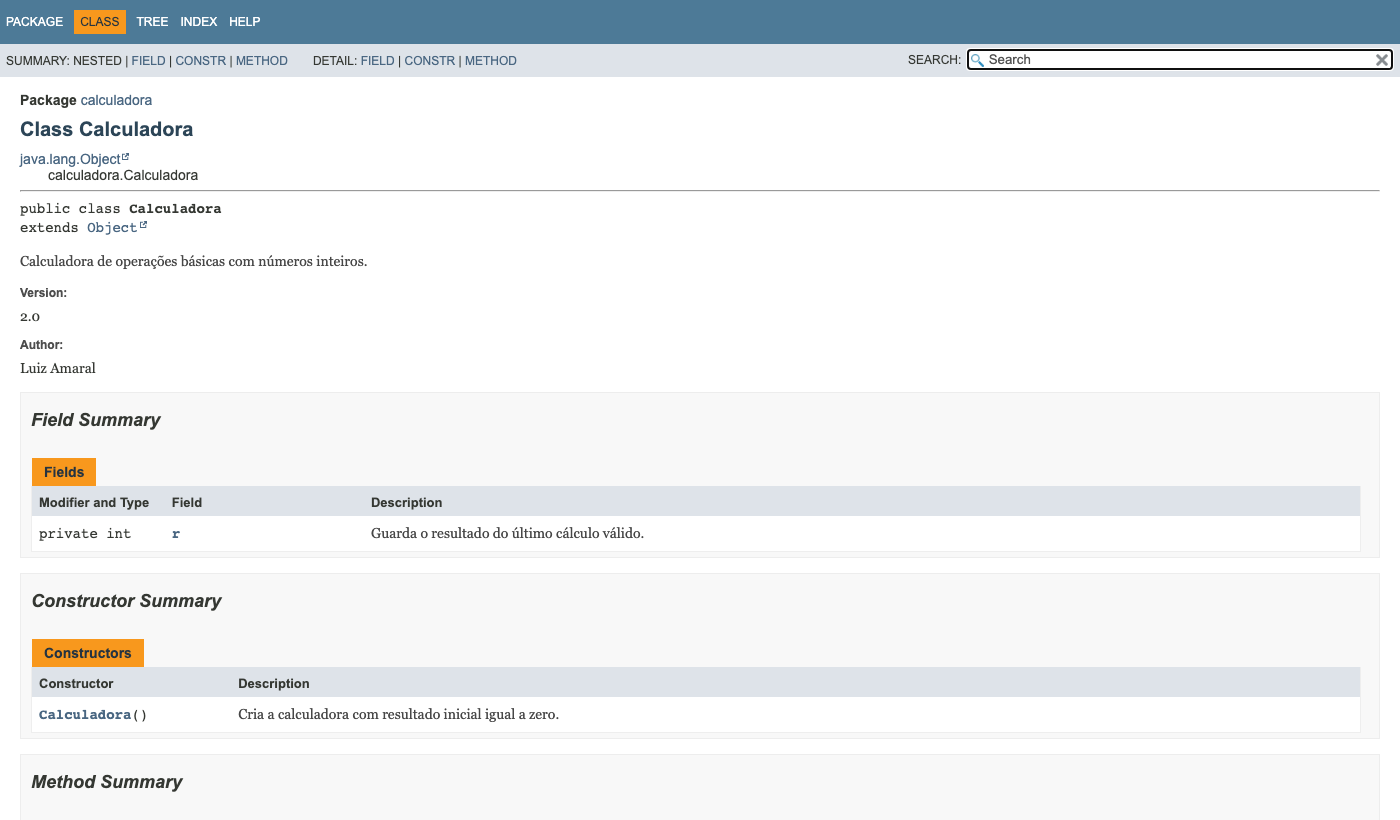
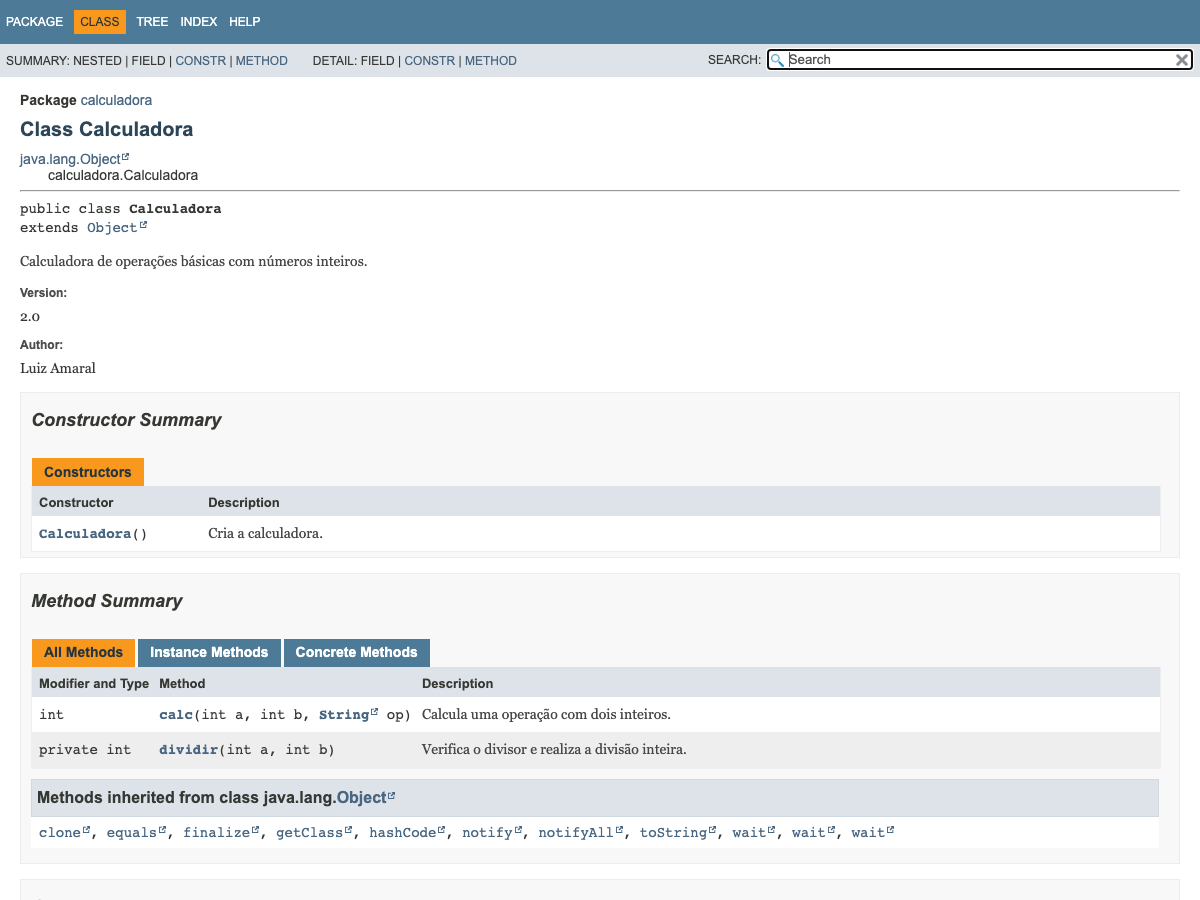
simplifica calculadora e README

Changed region(s): [[0.0, 0.0, 1.0, 0.6707], [0.0, 0.7012, 0.9867, 0.9756]]

diff --git a/docs/calculadora/Calculadora.html b/docs/calculadora/Calculadora.html
@@ -1,11 +1,10 @@
 <!DOCTYPE HTML>
 <html lang="pt">
 <head>
-<!-- Generated by javadoc (17) on Tue Oct 27 21:12:40 BRT 2026 -->
+<!-- Generated by javadoc (17) -->
 <title>Calculadora</title>
 <meta name="viewport" content="width=device-width, initial-scale=1">
 <meta http-equiv="Content-Type" content="text/html; charset=UTF-8">
-<meta name="dc.created" content="2026-10-27">
 <meta name="description" content="declaration: package: calculadora, class: Calculadora">
 <meta name="generator" content="javadoc/ClassWriterImpl">
 <link rel="stylesheet" type="text/css" href="../stylesheet.css" title="Style">
@@ -44,13 +43,13 @@ loadScripts(document, 'script');</script>
 <ul class="sub-nav-list">
 <li>Summary:&nbsp;</li>
 <li>Nested&nbsp;|&nbsp;</li>
-<li><a href="#field-summary">Field</a>&nbsp;|&nbsp;</li>
+<li>Field&nbsp;|&nbsp;</li>
 <li><a href="#constructor-summary">Constr</a>&nbsp;|&nbsp;</li>
 <li><a href="#method-summary">Method</a></li>
 </ul>
 <ul class="sub-nav-list">
 <li>Detail:&nbsp;</li>
-<li><a href="#field-detail">Field</a>&nbsp;|&nbsp;</li>
+<li>Field&nbsp;|&nbsp;</li>
 <li><a href="#constructor-detail">Constr</a>&nbsp;|&nbsp;</li>
 <li><a href="#method-detail">Method</a></li>
 </ul>
@@ -87,23 +86,6 @@ loadScripts(document, 'script');</script>
 </section>
 <section class="summary">
 <ul class="summary-list">
-<!-- =========== FIELD SUMMARY =========== -->
-<li>
-<section class="field-summary" id="field-summary">
-<h2>Field Summary</h2>
-<div class="caption"><span>Fields</span></div>
-<div class="summary-table three-column-summary">
-<div class="table-header col-first">Modifier and Type</div>
-<div class="table-header col-second">Field</div>
-<div class="table-header col-last">Description</div>
-<div class="col-first even-row-color"><code>private int</code></div>
-<div class="col-second even-row-color"><code><a href="#r" class="member-name-link">r</a></code></div>
-<div class="col-last even-row-color">
-<div class="block">Guarda o resultado do último cálculo válido.</div>
-</div>
-</div>
-</section>
-</li>
 <!-- ======== CONSTRUCTOR SUMMARY ======== -->
 <li>
 <section class="constructor-summary" id="constructor-summary">
@@ -114,7 +96,7 @@ loadScripts(document, 'script');</script>
 <div class="table-header col-last">Description</div>
 <div class="col-constructor-name even-row-color"><code><a href="#%3Cinit%3E()" class="member-name-link">Calculadora</a>()</code></div>
 <div class="col-last even-row-color">
-<div class="block">Cria a calculadora com resultado inicial igual a zero.</div>
+<div class="block">Cria a calculadora.</div>
 </div>
 </div>
 </section>
@@ -155,21 +137,6 @@ loadScripts(document, 'script');</script>
 </section>
 <section class="details">
 <ul class="details-list">
-<!-- ============ FIELD DETAIL =========== -->
-<li>
-<section class="field-details" id="field-detail">
-<h2>Field Details</h2>
-<ul class="member-list">
-<li>
-<section class="detail" id="r">
-<h3>r</h3>
-<div class="member-signature"><span class="modifiers">private</span>&nbsp;<span class="return-type">int</span>&nbsp;<span class="element-name">r</span></div>
-<div class="block">Guarda o resultado do último cálculo válido.</div>
-</section>
-</li>
-</ul>
-</section>
-</li>
 <!-- ========= CONSTRUCTOR DETAIL ======== -->
 <li>
 <section class="constructor-details" id="constructor-detail">
@@ -179,7 +146,7 @@ loadScripts(document, 'script');</script>
 <section class="detail" id="&lt;init&gt;()">
 <h3>Calculadora</h3>
 <div class="member-signature"><span class="modifiers">public</span>&nbsp;<span class="element-name">Calculadora</span>()</div>
-<div class="block">Cria a calculadora com resultado inicial igual a zero.</div>
+<div class="block">Cria a calculadora.</div>
 </section>
 </li>
 </ul>

diff --git a/docs/index-all.html b/docs/index-all.html
@@ -1,11 +1,10 @@
 <!DOCTYPE HTML>
 <html lang="pt">
 <head>
-<!-- Generated by javadoc (17) on Tue Oct 27 21:12:40 BRT 2026 -->
+<!-- Generated by javadoc (17) -->
 <title>Index</title>
 <meta name="viewport" content="width=device-width, initial-scale=1">
 <meta http-equiv="Content-Type" content="text/html; charset=UTF-8">
-<meta name="dc.created" content="2026-10-27">
 <meta name="description" content="index">
 <meta name="generator" content="javadoc/IndexWriter">
 <link rel="stylesheet" type="text/css" href="stylesheet.css" title="Style">
@@ -49,7 +48,7 @@ loadScripts(document, 'script');</script>
 <div class="header">
 <h1>Index</h1>
 </div>
-<a href="#I:C">C</a>&nbsp;<a href="#I:D">D</a>&nbsp;<a href="#I:M">M</a>&nbsp;<a href="#I:R">R</a>&nbsp;<a href="#I:T">T</a>&nbsp;<br><a href="allclasses-index.html">All&nbsp;Classes&nbsp;and&nbsp;Interfaces</a><span class="vertical-separator">|</span><a href="allpackages-index.html">All&nbsp;Packages</a>
+<a href="#I:C">C</a>&nbsp;<a href="#I:D">D</a>&nbsp;<a href="#I:M">M</a>&nbsp;<a href="#I:T">T</a>&nbsp;<br><a href="allclasses-index.html">All&nbsp;Classes&nbsp;and&nbsp;Interfaces</a><span class="vertical-separator">|</span><a href="allpackages-index.html">All&nbsp;Packages</a>
 <h2 class="title" id="I:C">C</h2>
 <dl class="index">
 <dt><a href="calculadora/Calculadora.html#calc(int,int,java.lang.String)" class="member-name-link">calc(int, int, String)</a> - Method in class calculadora.<a href="calculadora/Calculadora.html" title="class in calculadora">Calculadora</a></dt>
@@ -64,7 +63,7 @@ loadScripts(document, 'script');</script>
 </dd>
 <dt><a href="calculadora/Calculadora.html#%3Cinit%3E()" class="member-name-link">Calculadora()</a> - Constructor for class calculadora.<a href="calculadora/Calculadora.html" title="class in calculadora">Calculadora</a></dt>
 <dd>
-<div class="block">Cria a calculadora com resultado inicial igual a zero.</div>
+<div class="block">Cria a calculadora.</div>
 </dd>
 </dl>
 <h2 class="title" id="I:D">D</h2>
@@ -79,13 +78,6 @@ loadScripts(document, 'script');</script>
 <dt><a href="calculadora/TesteCalculadora.html#main(java.lang.String%5B%5D)" class="member-name-link">main(String[])</a> - Static method in class calculadora.<a href="calculadora/TesteCalculadora.html" title="class in calculadora">TesteCalculadora</a></dt>
 <dd>
 <div class="block">Testa as operações e confirma que o programa continua após erros.</div>
-</dd>
-</dl>
-<h2 class="title" id="I:R">R</h2>
-<dl class="index">
-<dt><a href="calculadora/Calculadora.html#r" class="member-name-link">r</a> - Variable in class calculadora.<a href="calculadora/Calculadora.html" title="class in calculadora">Calculadora</a></dt>
-<dd>
-<div class="block">Guarda o resultado do último cálculo válido.</div>
 </dd>
 </dl>
 <h2 class="title" id="I:T">T</h2>
@@ -107,7 +99,7 @@ loadScripts(document, 'script');</script>
 <div class="block">Cria a classe de testes.</div>
 </dd>
 </dl>
-<a href="#I:C">C</a>&nbsp;<a href="#I:D">D</a>&nbsp;<a href="#I:M">M</a>&nbsp;<a href="#I:R">R</a>&nbsp;<a href="#I:T">T</a>&nbsp;<br><a href="allclasses-index.html">All&nbsp;Classes&nbsp;and&nbsp;Interfaces</a><span class="vertical-separator">|</span><a href="allpackages-index.html">All&nbsp;Packages</a></main>
+<a href="#I:C">C</a>&nbsp;<a href="#I:D">D</a>&nbsp;<a href="#I:M">M</a>&nbsp;<a href="#I:T">T</a>&nbsp;<br><a href="allclasses-index.html">All&nbsp;Classes&nbsp;and&nbsp;Interfaces</a><span class="vertical-separator">|</span><a href="allpackages-index.html">All&nbsp;Packages</a></main>
 </div>
 </div>
 </body>

diff --git a/docs/member-search-index.js b/docs/member-search-index.js
@@ -1,1 +1,1 @@
-memberSearchIndex = [{"p":"calculadora","c":"Calculadora","l":"calc(int, int, String)","u":"calc(int,int,java.lang.String)"},{"p":"calculadora","c":"Calculadora","l":"Calculadora()","u":"%3Cinit%3E()"},{"p":"calculadora","c":"Calculadora","l":"dividir(int, int)","u":"dividir(int,int)"},{"p":"calculadora","c":"TesteCalculadora","l":"main(String[])","u":"main(java.lang.String[])"},{"p":"calculadora","c":"Calculadora","l":"r"},{"p":"calculadora","c":"TesteCalculadora","l":"testar(Calculadora, int, int, String, int)","u":"testar(calculadora.Calculadora,int,int,java.lang.String,int)"},{"p":"calculadora","c":"TesteCalculadora","l":"testarErro(Calculadora, int, int, String, String)","u":"testarErro(calculadora.Calculadora,int,int,java.lang.String,java.lang.String)"},{"p":"calculadora","c":"TesteCalculadora","l":"TesteCalculadora()","u":"%3Cinit%3E()"}];updateSearchResults();
+memberSearchIndex = [{"p":"calculadora","c":"Calculadora","l":"calc(int, int, String)","u":"calc(int,int,java.lang.String)"},{"p":"calculadora","c":"Calculadora","l":"Calculadora()","u":"%3Cinit%3E()"},{"p":"calculadora","c":"Calculadora","l":"dividir(int, int)","u":"dividir(int,int)"},{"p":"calculadora","c":"TesteCalculadora","l":"main(String[])","u":"main(java.lang.String[])"},{"p":"calculadora","c":"TesteCalculadora","l":"testar(Calculadora, int, int, String, int)","u":"testar(calculadora.Calculadora,int,int,java.lang.String,int)"},{"p":"calculadora","c":"TesteCalculadora","l":"testarErro(Calculadora, int, int, String, String)","u":"testarErro(calculadora.Calculadora,int,int,java.lang.String,java.lang.String)"},{"p":"calculadora","c":"TesteCalculadora","l":"TesteCalculadora()","u":"%3Cinit%3E()"}];updateSearchResults();

diff --git a/docs/calculadora/TesteCalculadora.html b/docs/calculadora/TesteCalculadora.html
@@ -1,11 +1,10 @@
 <!DOCTYPE HTML>
 <html lang="pt">
 <head>
-<!-- Generated by javadoc (17) on Tue Oct 27 21:12:40 BRT 2026 -->
+<!-- Generated by javadoc (17) -->
 <title>TesteCalculadora</title>
 <meta name="viewport" content="width=device-width, initial-scale=1">
 <meta http-equiv="Content-Type" content="text/html; charset=UTF-8">
-<meta name="dc.created" content="2026-10-27">
 <meta name="description" content="declaration: package: calculadora, class: TesteCalculadora">
 <meta name="generator" content="javadoc/ClassWriterImpl">
 <link rel="stylesheet" type="text/css" href="../stylesheet.css" title="Style">

diff --git a/docs/calculadora/package-tree.html b/docs/calculadora/package-tree.html
@@ -1,11 +1,10 @@
 <!DOCTYPE HTML>
 <html lang="pt">
 <head>
-<!-- Generated by javadoc (17) on Tue Oct 27 21:12:40 BRT 2026 -->
+<!-- Generated by javadoc (17) -->
 <title>calculadora Class Hierarchy</title>
 <meta name="viewport" content="width=device-width, initial-scale=1">
 <meta http-equiv="Content-Type" content="text/html; charset=UTF-8">
-<meta name="dc.created" content="2026-10-27">
 <meta name="description" content="tree: package: calculadora">
 <meta name="generator" content="javadoc/PackageTreeWriter">
 <link rel="stylesheet" type="text/css" href="../stylesheet.css" title="Style">

diff --git a/docs/calculadora/package-summary.html b/docs/calculadora/package-summary.html
@@ -1,11 +1,10 @@
 <!DOCTYPE HTML>
 <html lang="pt">
 <head>
-<!-- Generated by javadoc (17) on Tue Oct 27 21:12:40 BRT 2026 -->
+<!-- Generated by javadoc (17) -->
 <title>calculadora</title>
 <meta name="viewport" content="width=device-width, initial-scale=1">
 <meta http-equiv="Content-Type" content="text/html; charset=UTF-8">
-<meta name="dc.created" content="2026-10-27">
 <meta name="description" content="declaration: package: calculadora">
 <meta name="generator" content="javadoc/PackageWriterImpl">
 <link rel="stylesheet" type="text/css" href="../stylesheet.css" title="Style">

diff --git a/docs/allclasses-index.html b/docs/allclasses-index.html
@@ -1,11 +1,10 @@
 <!DOCTYPE HTML>
 <html lang="pt">
 <head>
-<!-- Generated by javadoc (17) on Tue Oct 27 21:12:40 BRT 2026 -->
+<!-- Generated by javadoc (17) -->
 <title>All Classes and Interfaces</title>
 <meta name="viewport" content="width=device-width, initial-scale=1">
 <meta http-equiv="Content-Type" content="text/html; charset=UTF-8">
-<meta name="dc.created" content="2026-10-27">
 <meta name="description" content="class index">
 <meta name="generator" content="javadoc/AllClassesIndexWriter">
 <link rel="stylesheet" type="text/css" href="stylesheet.css" title="Style">

diff --git a/docs/index.html b/docs/index.html
@@ -1,11 +1,10 @@
 <!DOCTYPE HTML>
 <html lang="pt">
 <head>
-<!-- Generated by javadoc (17) on Tue Oct 27 21:12:40 BRT 2026 -->
+<!-- Generated by javadoc (17) -->
 <title>Generated Documentation (Untitled)</title>
 <meta name="viewport" content="width=device-width, initial-scale=1">
 <meta http-equiv="Content-Type" content="text/html; charset=UTF-8">
-<meta name="dc.created" content="2026-10-27">
 <meta name="description" content="index redirect">
 <meta name="generator" content="javadoc/IndexRedirectWriter">
 <link rel="canonical" href="calculadora/package-summary.html">

diff --git a/docs/allpackages-index.html b/docs/allpackages-index.html
@@ -1,11 +1,10 @@
 <!DOCTYPE HTML>
 <html lang="pt">
 <head>
-<!-- Generated by javadoc (17) on Tue Oct 27 21:12:40 BRT 2026 -->
+<!-- Generated by javadoc (17) -->
 <title>All Packages</title>
 <meta name="viewport" content="width=device-width, initial-scale=1">
 <meta http-equiv="Content-Type" content="text/html; charset=UTF-8">
-<meta name="dc.created" content="2026-10-27">
 <meta name="description" content="package index">
 <meta name="generator" content="javadoc/AllPackagesIndexWriter">
 <link rel="stylesheet" type="text/css" href="stylesheet.css" title="Style">

diff --git a/docs/overview-tree.html b/docs/overview-tree.html
@@ -1,11 +1,10 @@
 <!DOCTYPE HTML>
 <html lang="pt">
 <head>
-<!-- Generated by javadoc (17) on Tue Oct 27 21:12:40 BRT 2026 -->
+<!-- Generated by javadoc (17) -->
 <title>Class Hierarchy</title>
 <meta name="viewport" content="width=device-width, initial-scale=1">
 <meta http-equiv="Content-Type" content="text/html; charset=UTF-8">
-<meta name="dc.created" content="2026-10-27">
 <meta name="description" content="class tree">
 <meta name="generator" content="javadoc/TreeWriter">
 <link rel="stylesheet" type="text/css" href="stylesheet.css" title="Style">

diff --git a/docs/help-doc.html b/docs/help-doc.html
@@ -1,11 +1,10 @@
 <!DOCTYPE HTML>
 <html lang="pt">
 <head>
-<!-- Generated by javadoc (17) on Tue Oct 27 21:12:40 BRT 2026 -->
+<!-- Generated by javadoc (17) -->
 <title>API Help</title>
 <meta name="viewport" content="width=device-width, initial-scale=1">
 <meta http-equiv="Content-Type" content="text/html; charset=UTF-8">
-<meta name="dc.created" content="2026-10-27">
 <meta name="description" content="help">
 <meta name="generator" content="javadoc/HelpWriter">
 <link rel="stylesheet" type="text/css" href="stylesheet.css" title="Style">

diff --git a/src/calculadora/Calculadora.java b/src/calculadora/Calculadora.java
@@ -6,12 +6,8 @@ package calculadora;
  * @version 2.0
  */
 public class Calculadora {
-    /** Guarda o resultado do último cálculo válido. */
-    private int r;
-
-    /** Cria a calculadora com resultado inicial igual a zero. */
+    /** Cria a calculadora. */
     public Calculadora() {
-        r = 0;
     }
 
     /**
@@ -26,24 +22,19 @@ public class Calculadora {
         if (op == null) {
             throw new IllegalArgumentException("Operação inválida. Use +, -, * ou /.");
         }
-        // O switch organiza a escolha da operação.
+        // Cada caso retorna o resultado da operação escolhida.
         switch (op) {
             case "+":
-                r = a + b;
-                break;
+                return a + b;
             case "-":
-                r = a - b;
-                break;
+                return a - b;
             case "*":
-                r = a * b;
-                break;
+                return a * b;
             case "/":
-                r = dividir(a, b);
-                break;
+                return dividir(a, b);
             default:
                 throw new IllegalArgumentException("Operação inválida. Use +, -, * ou /.");
         }
-        return r;
     }
 
     /**
